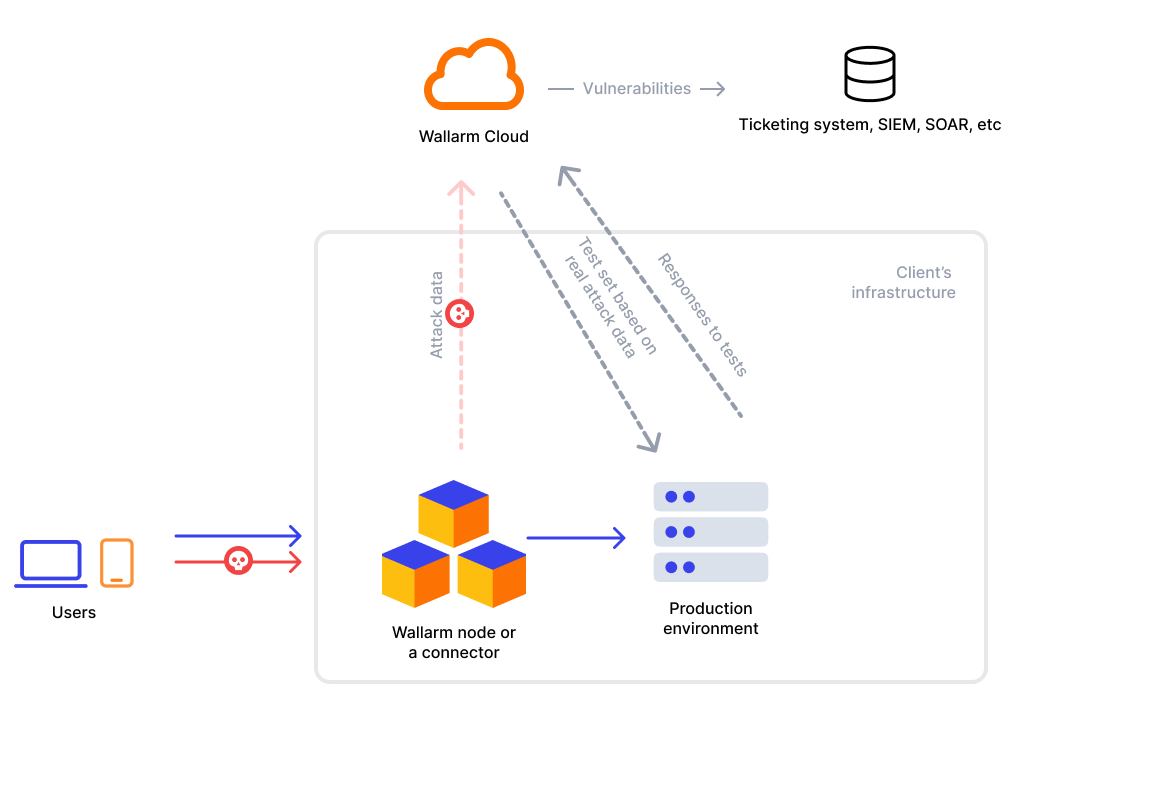
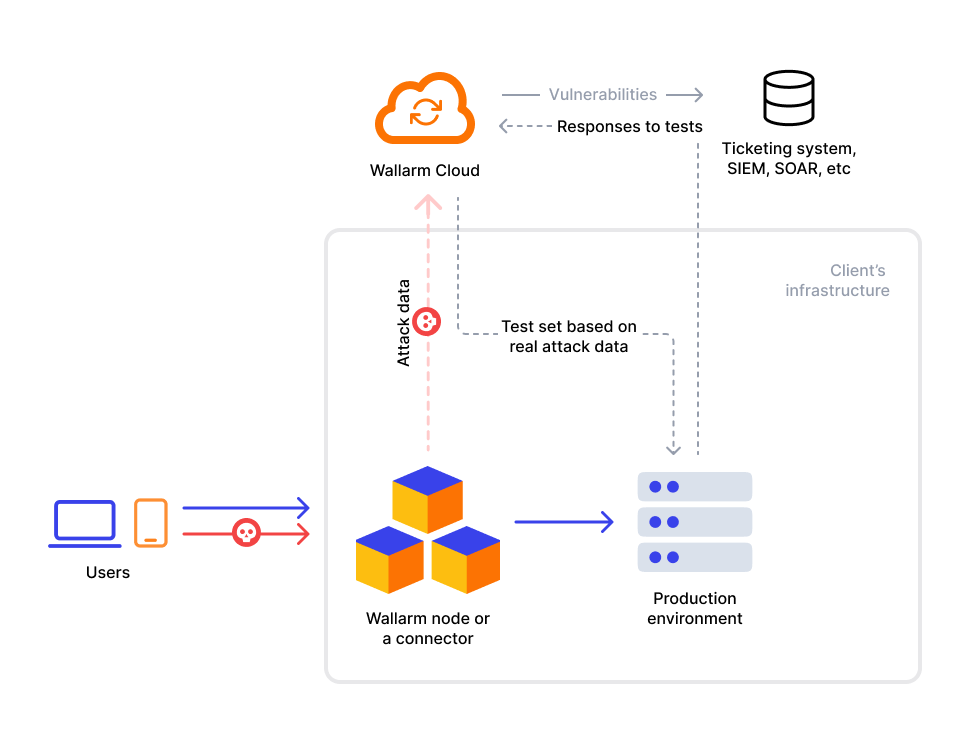
add the diagrams for atv

diff --git a/docs/latest-ja/vulnerability-detection/active-threat-verification/overview.md b/docs/latest-ja/vulnerability-detection/active-threat-verification/overview.md
@@ -19,9 +19,9 @@ The resulting set of attack simulations is directed to the same address as the o
 
 By analyzing responses to the test requests, the module determines vulnerability to specific [attack types](../../attacks-vulns-list.md). Discovered vulnerabilities are cataloged in the Wallarm Console UI's [**Vulnerabilities**](../../user-guides/vulnerabilities.md) section. Additionally, you have the option to receive [notifications](../../user-guides/settings/integrations/integrations-intro.md) about these findings.
 
-<!-- The following diagram demonstrates how the module works:
+The following diagram demonstrates how the module works:
 
-![ATV scheme](../../images/vulnerability-detection/active-threat-verification-scheme-prod.png) -->
+![ATV scheme](../../images/vulnerability-detection/active-threat-verification-scheme-prod.png)
 
 The generated requests carry the `User-Agent: Wallarm Threat-Verification (v1.x)` header, helping differentiate them from other requests.
 

diff --git a/docs/latest/vulnerability-detection/active-threat-verification/overview.md b/docs/latest/vulnerability-detection/active-threat-verification/overview.md
@@ -19,9 +19,9 @@ The resulting set of attack simulations is directed to the same address as the o
 
 By analyzing responses to the test requests, the module determines vulnerability to specific [attack types](../../attacks-vulns-list.md). Discovered vulnerabilities are cataloged in the Wallarm Console UI's [**Vulnerabilities**](../../user-guides/vulnerabilities.md) section. Additionally, you have the option to receive [notifications](../../user-guides/settings/integrations/integrations-intro.md) about these findings.
 
-<!-- The following diagram demonstrates how the module works:
+The following diagram demonstrates how the module works:
 
-![ATV scheme](../../images/vulnerability-detection/active-threat-verification-scheme-prod.png) -->
+![ATV scheme](../../images/vulnerability-detection/active-threat-verification-scheme-prod.png)
 
 The generated requests carry the `User-Agent: Wallarm Threat-Verification (v1.x)` header, helping differentiate them from other requests.
 

diff --git a/docs/latest-ja/vulnerability-detection/active-threat-verification/running-test-on-staging.md b/docs/latest-ja/vulnerability-detection/active-threat-verification/running-test-on-staging.md
@@ -10,9 +10,9 @@ To set up the module for non-production testing, follow these steps:
 1. Configure a non-production authentication cookie or API key.
 1. Enable Active Threat Verification.
 
-<!-- The following diagram demonstrates how the module works in this use case:
+The following diagram demonstrates how the module works in this use case:
 
-![ATV scheme](../../images/vulnerability-detection/active-threat-verification-scheme-staging.png) -->
+![ATV scheme](../../images/vulnerability-detection/active-threat-verification-scheme-staging.png)
 
 ## 1. Configure a non-production environment host
 

diff --git a/docs/latest/vulnerability-detection/active-threat-verification/running-test-on-staging.md b/docs/latest/vulnerability-detection/active-threat-verification/running-test-on-staging.md
@@ -10,9 +10,9 @@ To set up the module for non-production testing, follow these steps:
 1. Configure a non-production authentication cookie or API key.
 1. Enable Active Threat Verification.
 
-<!-- The following diagram demonstrates how the module works in this use case:
+The following diagram demonstrates how the module works in this use case:
 
-![ATV scheme](../../images/vulnerability-detection/active-threat-verification-scheme-staging.png) -->
+![ATV scheme](../../images/vulnerability-detection/active-threat-verification-scheme-staging.png)
 
 ## 1. Configure a non-production environment host
 
